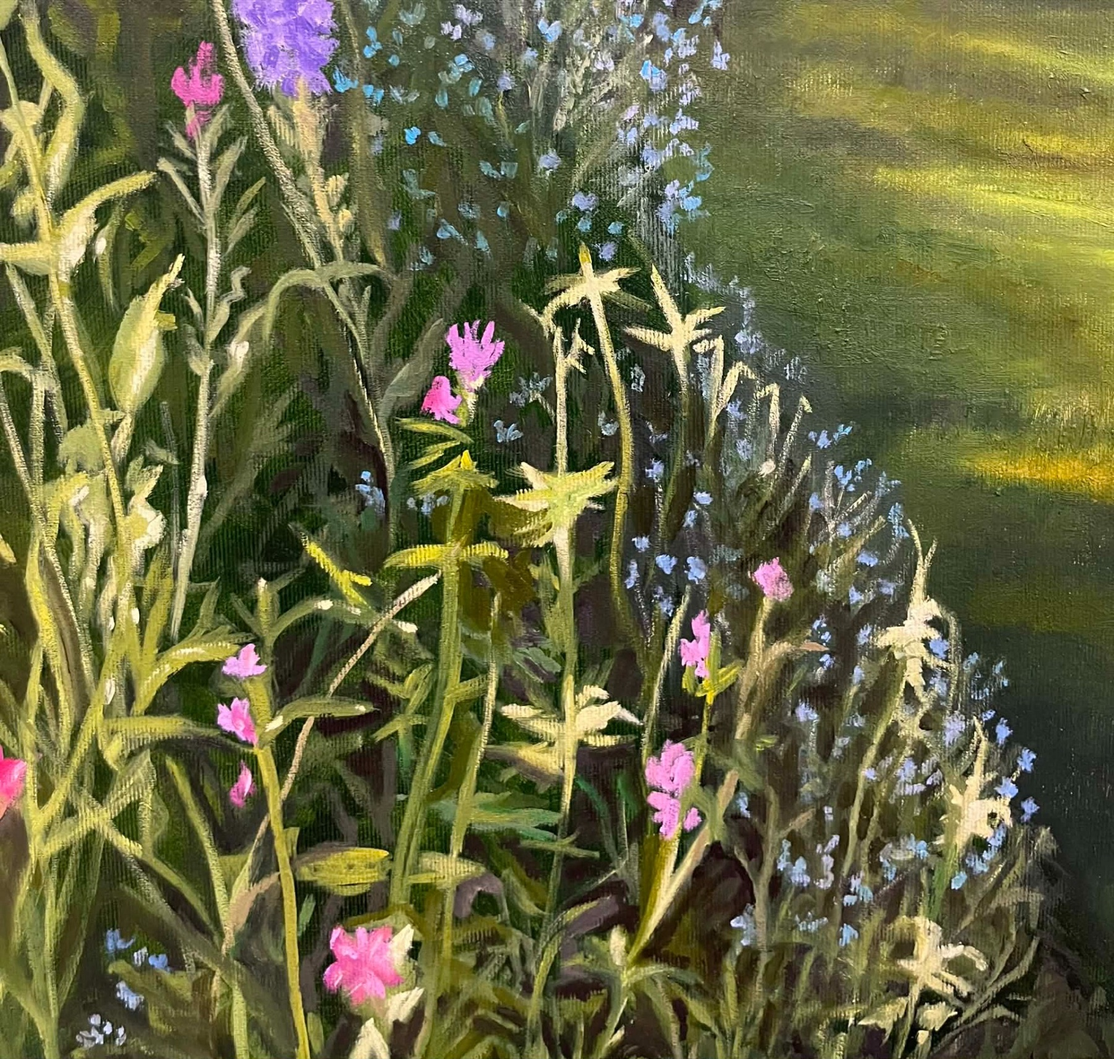
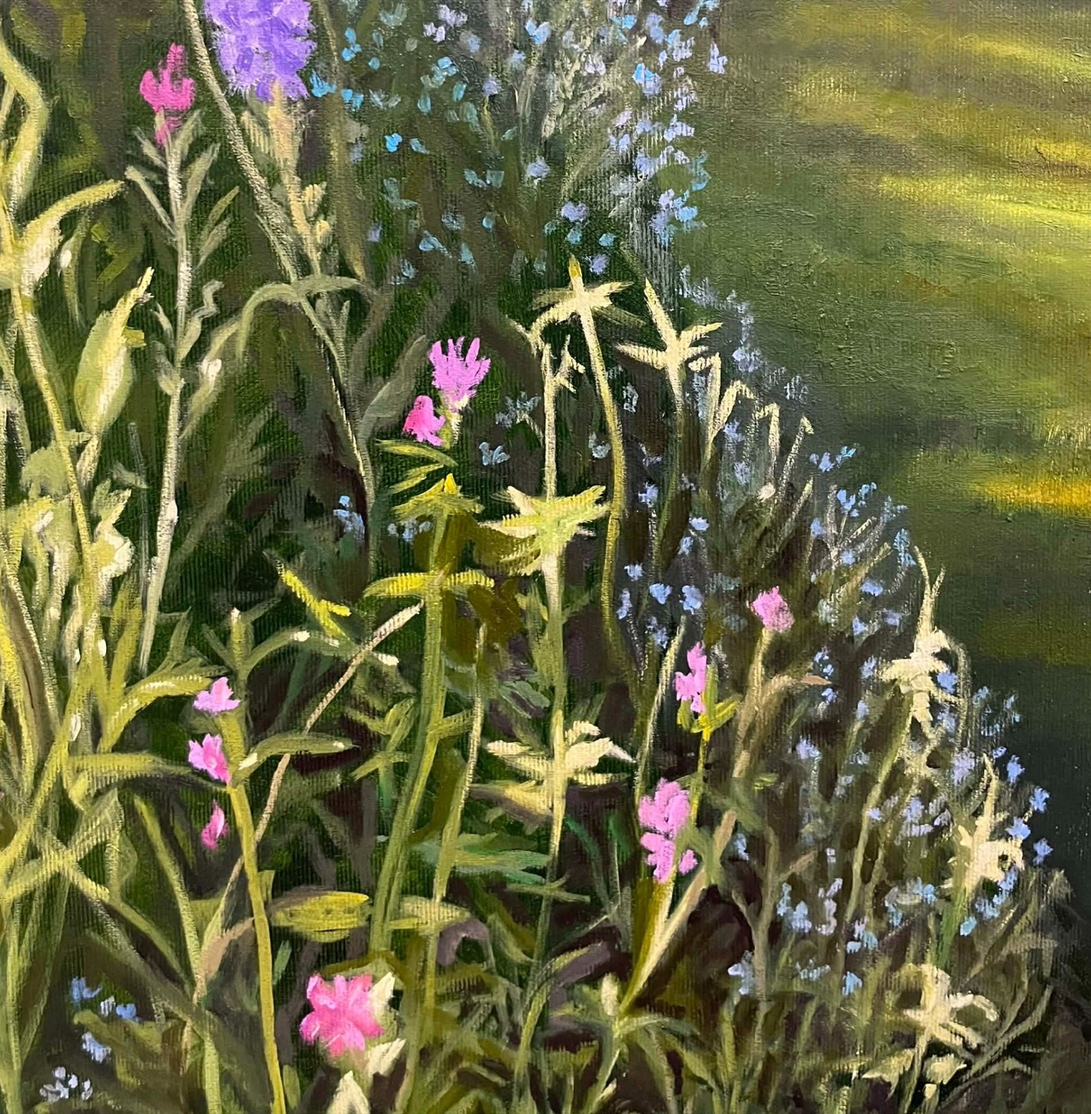
Inicialni verze webu

diff --git a/paintings.js b/paintings.js
@@ -12,7 +12,7 @@ var paintings = [
     "story": "",
     "image": "Energy_mistnost.jpg",
     "images": ["Energy_mistnost.jpg", "Energy_obraz_1.jpeg", "Energy_detail_3.jpeg", "energy 4.jpg"],
-    "img_zoom": [1.15, 1.15, 1.15, 1.15],
+    "img_zoom": [1.21, 1.21, 1.21, 1.21],
     "on_web": true
   },
 
@@ -48,7 +48,7 @@ var paintings = [
     "story": "Chtěla jsem zachytit to, co se nedá vyslovit. Ten okamžik, kdy se ztiším natolik, že uslyším víc, než jen sebe. Kdy hranice mezi mnou a tím, s kým mluvím, přestane existovat, a zůstane jen proudění — jemné, modré, živé.\n\nMaloval mě dech. Každá linie je otisk chvíle, kdy jsem přestala hledat slova a nechala ruku svobodnou. Nevím přesně, co jsem zachytila. Vím jen, že to bylo skutečné.\n\nNechávám tento obraz otevřený. Nehledejte v něm mé vysvětlení — hledejte v něm své vlastní spojení. To, co uvidíte, když necháte oči volně bloudit po plátně, patří jen vám.",
     "image": "rozhovor-mistnost-1.jpg",
     "images": ["rozhovor-mistnost-1.jpg", "rozhovor-key.jpeg", "rozhovor-detail-1.jpeg", "rozhovor-mistnost-2.jpg"],
-    "img_zoom": [1.15, 1.15, 1.15, 1.15],
+    "img_zoom": [1.21, 1.21, 1.21, 1.21],
     "on_web": true
   },
 
@@ -109,7 +109,7 @@ var paintings = [
     "story": "Od hladiny jsem nedokázala odejít. Stačil lehký závan větru a z klidného zrcadla se stal živý obraz. Po vodě se začaly šířit jemné kruhy a vlnky, které rozbíjely odrazy stromů i oblohy. Každý okamžik byl jiný. Barvy se prolínaly, světlo se lámalo do nových tvarů a krajina jako by se nadechovala spolu s vodou. Uvědomila jsem si, že právě v tom neustálém pohybu je zvláštní harmonie. Nic nezůstává stejné, a přesto všechno drží pohromadě.\n\nObraz Vlnění vznikl z tohoto okamžiku. Z jemného pohybu, který proměňuje světlo i barvy, aniž by narušil jejich krásu. Malovala jsem špachtlí, vrstvila odstíny modré, tyrkysové, zelené a zlaté, nechávala je vzájemně se dotýkat, prolínat a vytvářet rytmus připomínající vodní vlny. Každá vrstva nese stopu předchozí, stejně jako každý prožitek zanechává jemnou stopu v našem nitru. Vlnění je pro mě připomínkou, že i zdánlivě nepatrný pohyb dokáže proměnit celý obraz – na hladině i v našem životě.",
     "image": "vlneni fin 1.jpg",
     "images": ["vlneni fin 1.jpg", "vlneni fin 2.jpeg", "vlneni fin 3.jpeg", "vlneni fin 4.jpg"],
-    "img_zoom": [1.15, 1.15, 1.15, 1.15],
+    "img_zoom": [1.21, 1.21, 1.21, 1.21],
     "on_web": true
   },
   {
@@ -123,8 +123,9 @@ var paintings = [
     "status": "Dostupné",
     "story": "Ten den jsem šla bez cíle. Jen se nadechnout lesa, pustit myšlenky ven a nechat se vést. Cesta mě přivedla k rybníku - k tomu tichému, širokému zrcadlu uprostřed jarní krajiny. Zastavila jsem se. Voda byla klidná, ale žila. Neustále proměnlivá, barevná. Slunce v ní rozpouštělo zlatavé tóny, větve bříz kreslily šedozelené linie, nebe se koupalo v jemně modré. Každý pohyb větrem nebo ptákem rozechvíval hladinu, a spolu s ní i barvy. Nic nebylo ostré, přesto všechno mělo tvar. Všechno se rozplývalo a znovu skládalo. Byla to poezie odrazů.\n\nObraz Hladiny vznikl právě z té chvíle. Z toho barevného klidu, kde se svět nerozděluje na nahoře a dole, ale plyne dohromady. Malovala jsem špachtlí, vrstvila tóny modré, zelené, zlaté a tyrkysové, nechávala je prolínat, míchat se, překrývat. Stejně jako se míchají myšlenky, pocity, vjemy - na hladině i uvnitř nás.",
     "image": "hladiny 1.jpg",
-    "images": ["hladiny 1.jpg", "Hladiny 2.jpg", "Hladiny 3.jpg", "Hladiny 4.jpg"],
-    "img_zoom": [1.15, 1.15, 1.15, 1.15],
+    "images": ["hladiny 1.jpg", "Hladiny 2.jpg", "Hladiny 3.jpg", "hladiny 4 fin.jpg"],
+    "img_zoom": [1.21, 1.21, 1.21, 1.21],
+    "img_position": ["center", "center", "center", "center"],
     "on_web": true
   },
   {
@@ -212,7 +213,6 @@ var paintings = [
     "story": "Větve se proplétají jako věty, které si stromy šeptají mezi sebou už léta. Nebe mezi nimi prosvítá jen v útržcích, tiché modré kousky, které si všimne jen ten, kdo se na chvíli zastaví.\n\nNechala jsem je holé, bez listí, protože v tichu zimy je slyšet nejvíc. Kořeny pevně v zemi, a přesto nikam nespěchají – vědí, že jaro přijde samo.",
     "image": "septani stromu 1.jpg",
     "images": ["septani stromu 1.jpg", "septani stromu 2.png", "septani stormu 3.png", "septani stromu 4.jpg"],
-    "img_zoom": [1.2],
     "on_web": true
   },
 

diff --git a/galerie.html b/galerie.html
@@ -2488,6 +2488,7 @@
   <div class="vystavy-inner">
     <h2 class="section-title" data-cs="Výstavy" data-en="Exhibitions" data-it="Mostre">Výstavy</h2>
     <ul class="vystavy-list">
+      <li><span class="vystavy-rok">2026</span><span class="vystavy-popis" data-cs="Zastoupena v online galerii <em>Saatchi Art</em>" data-en="Represented by online gallery <em>Saatchi Art</em>" data-it="Rappresentata dalla galleria online <em>Saatchi Art</em>">Zastoupena v online galerii <em>Saatchi Art</em></span></li>
       <li><span class="vystavy-rok">2026</span><span class="vystavy-popis" data-cs="Obraz <em>Energy</em> z nové kolekce Abstract k vidění v prémiové pekárně a kavárně Zrno Zrnko" data-en="Painting <em>Energy</em> from the new Abstract collection on display at premium bakery and café Zrno Zrnko" data-it="Dipinto <em>Energy</em> della nuova collezione Abstract in mostra nella premiata panetteria e caffè Zrno Zrnko">Obraz <em>Energy</em> z nové kolekce Abstract k vidění v prémiové pekárně a kavárně Zrno Zrnko</span></li>
       <li><span class="vystavy-rok">2025</span><span class="vystavy-popis" data-cs="Samostatná výstava <em>Dotek nekonečna</em>, Galerie Petrof" data-en="Solo exhibition <em>Dotek nekonečna</em>, Galerie Petrof" data-it="Mostra personale <em>Dotek nekonečna</em>, Galleria Petrof">Samostatná výstava <em>Dotek nekonečna</em>, Galerie Petrof</span></li>
       <li><span class="vystavy-rok">2022</span><span class="vystavy-popis" data-cs="Samostatná výstava <em>Secret of Love</em>, Galerie Petrof" data-en="Solo exhibition <em>Secret of Love</em>, Galerie Petrof" data-it="Mostra personale <em>Secret of Love</em>, Galleria Petrof">Samostatná výstava <em>Secret of Love</em>, Galerie Petrof</span></li>
@@ -2922,7 +2923,7 @@ Vendemmia Tardiva è per tutte le donne che vogliono ispirarsi, rallentare, apri
   </div>
 </div>
 
-<script src="paintings.js?v=86"></script>
+<script src="paintings.js?v=94"></script>
 <script>
 // Current language (initialised early so colLabel works from any script block)
 let currentLang = localStorage.getItem('lang') || 'cs';
@@ -3083,6 +3084,7 @@ function updateGalViewer() {
   activeImg.style.objectFit = _fitIdx;
   const _zoomIdx = p.img_zoom ? (p.img_zoom[currentGalPhotoIndex] || 1) : 1;
   activeImg.style.transform = _zoomIdx !== 1 ? `scale(${_zoomIdx})` : '';
+  activeImg.style.objectPosition = p.img_position ? (p.img_position[currentGalPhotoIndex] || 'center') : 'center';
   const _imgWrap = document.querySelector('.gal-active-img-wrap');
   if (_imgWrap) _imgWrap.style.overflow = (_fitIdx === 'contain' && _zoomIdx > 1) ? 'visible' : 'hidden';
   activeImg.style.opacity = '0';
@@ -3501,7 +3503,8 @@ function openMobileDetail(type, index) {
     const z = p.img_zoom ? (p.img_zoom[i] || 1) : 1;
     const zStyle = z !== 1 ? `;transform:scale(${z})` : '';
     const mobFit = p.img_crop ? (p.img_crop[i] || mobFitDefault) : mobFitDefault;
-    return `<div class="mob-carousel-slide"><img src="images/${img}" alt="${p.title}" loading="lazy" style="object-fit:${mobFit}${zStyle}"></div>`;
+    const mobPos = p.img_position ? (p.img_position[i] || 'center') : 'center';
+    return `<div class="mob-carousel-slide"><img src="images/${img}" alt="${p.title}" loading="lazy" style="object-fit:${mobFit};object-position:${mobPos}${zStyle}"></div>`;
   }).join('');
   dotsEl.innerHTML = mobCarouselImages.length > 1
     ? mobCarouselImages.map((_, i) => `<div class="mob-carousel-dot${i===0?' active':''}"></div>`).join('')
